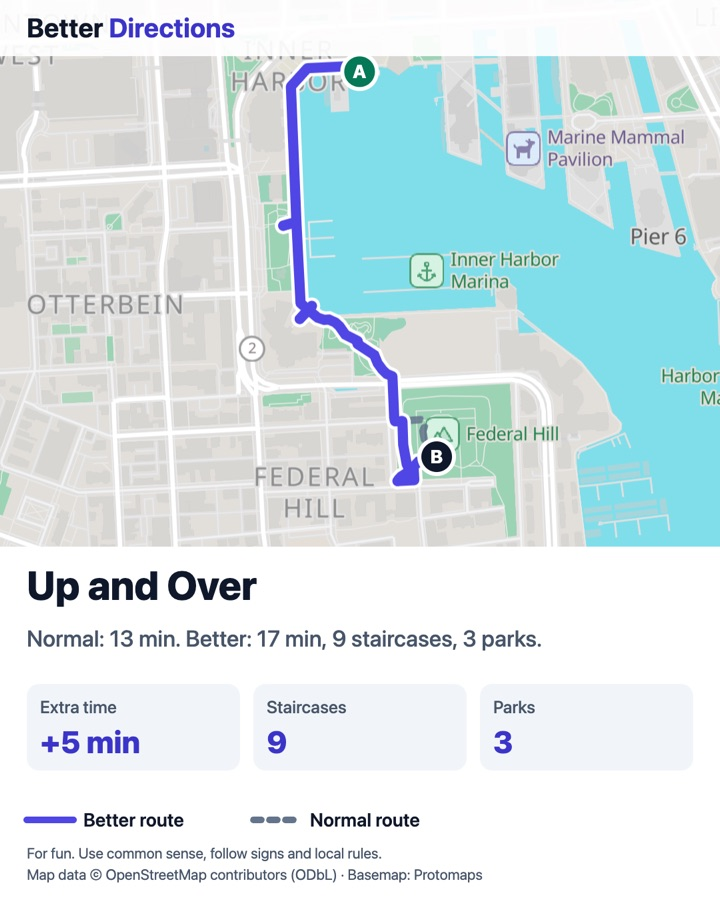
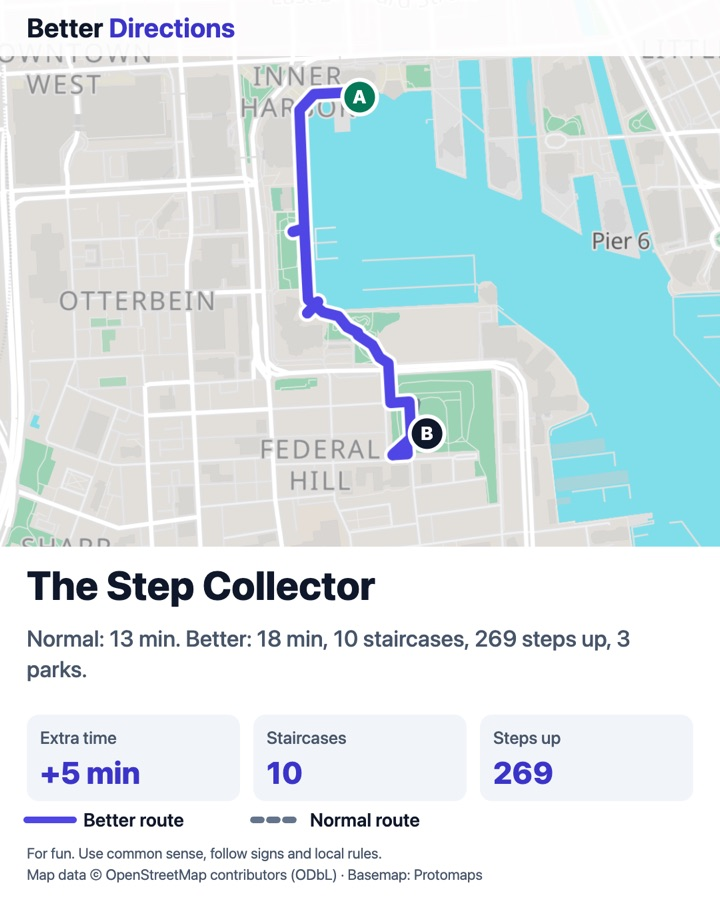
Retake the README screenshots in the new look

diff --git a/CHANGELOG.md b/CHANGELOG.md
@@ -12,12 +12,14 @@
 - Park pins: parks along or near a route, with their hours. Tap one to add it as a stop; up to three stops, in order.
 - Spell a word: a walk whose trace spells 2 to 10 letters or digits, scored for readability per letter. The word stays on the device unless you choose to include it in a link.
 - Famous routes for the new mode, a crawl and a workout.
+- Dark mode, with a dark basemap. It follows the system setting, and a switch in the header changes it for the visit (nothing is stored).
 
 ### Changed
 
 - Stricter safety: no paths on military land; inside private or no-access grounds only explicitly public paths; no walking down busy roads whose sidewalks are mapped separately or that have none. Cemeteries are flagged as places that may close.
 - Directions only call it a turn at a real junction, matching the turn counts.
 - The side panel is now a set of collapsible sections (Plan a route, Draw a shape, Famous routes, About and privacy), each with a one-line summary. Open sections are kept in shared links.
+- A new look: the map fills the screen, with the planner floating over it on wide screens and as a bottom sheet on phones that expands to full height. Start and end sit in one field with a swap button; modes are cards; short choices are segmented controls. Routes are fitted into the part of the map the planner leaves visible, and so is the share image.
 - Modes are listed with a description each, and have shorter names: Through buildings, Trails, Stairs, Parks, Snacks, Left turns only and Random. Links using the old mode ids still work.
 - Copy, route names and directions are drier and plainer. The safety notice is unchanged.
 - Passages and corridors through buildings that aren't public-facing (flats, offices, university buildings, hospitals) are no longer routed through unless they're tagged public, have a street name, or are confirmed against the city's list. In Lyon this removes the Université Lyon 1 campus corridors and about 150 private-looking passages.

diff --git a/README.md b/README.md
@@ -28,7 +28,7 @@ Every route gets a name, and can be shared as a link or as an image drawn on you
 
 A crawl visits a few artworks, pubs or wine bars in a sensible order, looping back or ending somewhere else. Stops are numbered pins you can swap or skip. Pub and wine crawls keep the walks short, prefer lit streets, and flag places whose hours suggest they close before the evening. See [docs/CRAWLS.md](docs/CRAWLS.md) for what counts as a stop.
 
-<img src="docs/images/dc-crawl.jpg" alt="An art crawl from U Street station in DC: six murals and sculptures as numbered pins, 44 minutes" width="640">
+<img src="docs/images/dc-crawl.jpg" alt="An art crawl from U Street station in DC, in dark mode: six murals and sculptures as numbered pins, 44 minutes" width="640">
 
 A workout is a 20, 30 or 45-minute loop from your start, collecting staircases, hills or both. It shows the staircases, steps and metres climbed, and notes any stretch tagged as unlit. It makes no claims about calories.
 
@@ -56,7 +56,7 @@ The build is also stricter than the rules above in places. It excludes escalator
 
 The page talks to no one but its own site: tiles, fonts, data and code are all self-hosted, and a strict Content-Security-Policy enforces it. There are no cookies, no storage and no analytics.
 
-A word you spell stays on your device unless you choose to put it in a link. Your location is used only if you tap "Use my location". It stays on your device, and it's snapped to the nearest path before it goes into a link. Shared links and images do show your start and end points; the page says so next to the share buttons.
+A word you spell stays on your device unless you choose to put it in a link. Your location is used only if you tap "My location" or "Nearest to me". It stays on your device, and it's snapped to the nearest path before it goes into a link. Shared links and images do show your start and end points; the page says so next to the share buttons.
 
 ## Performance
 
